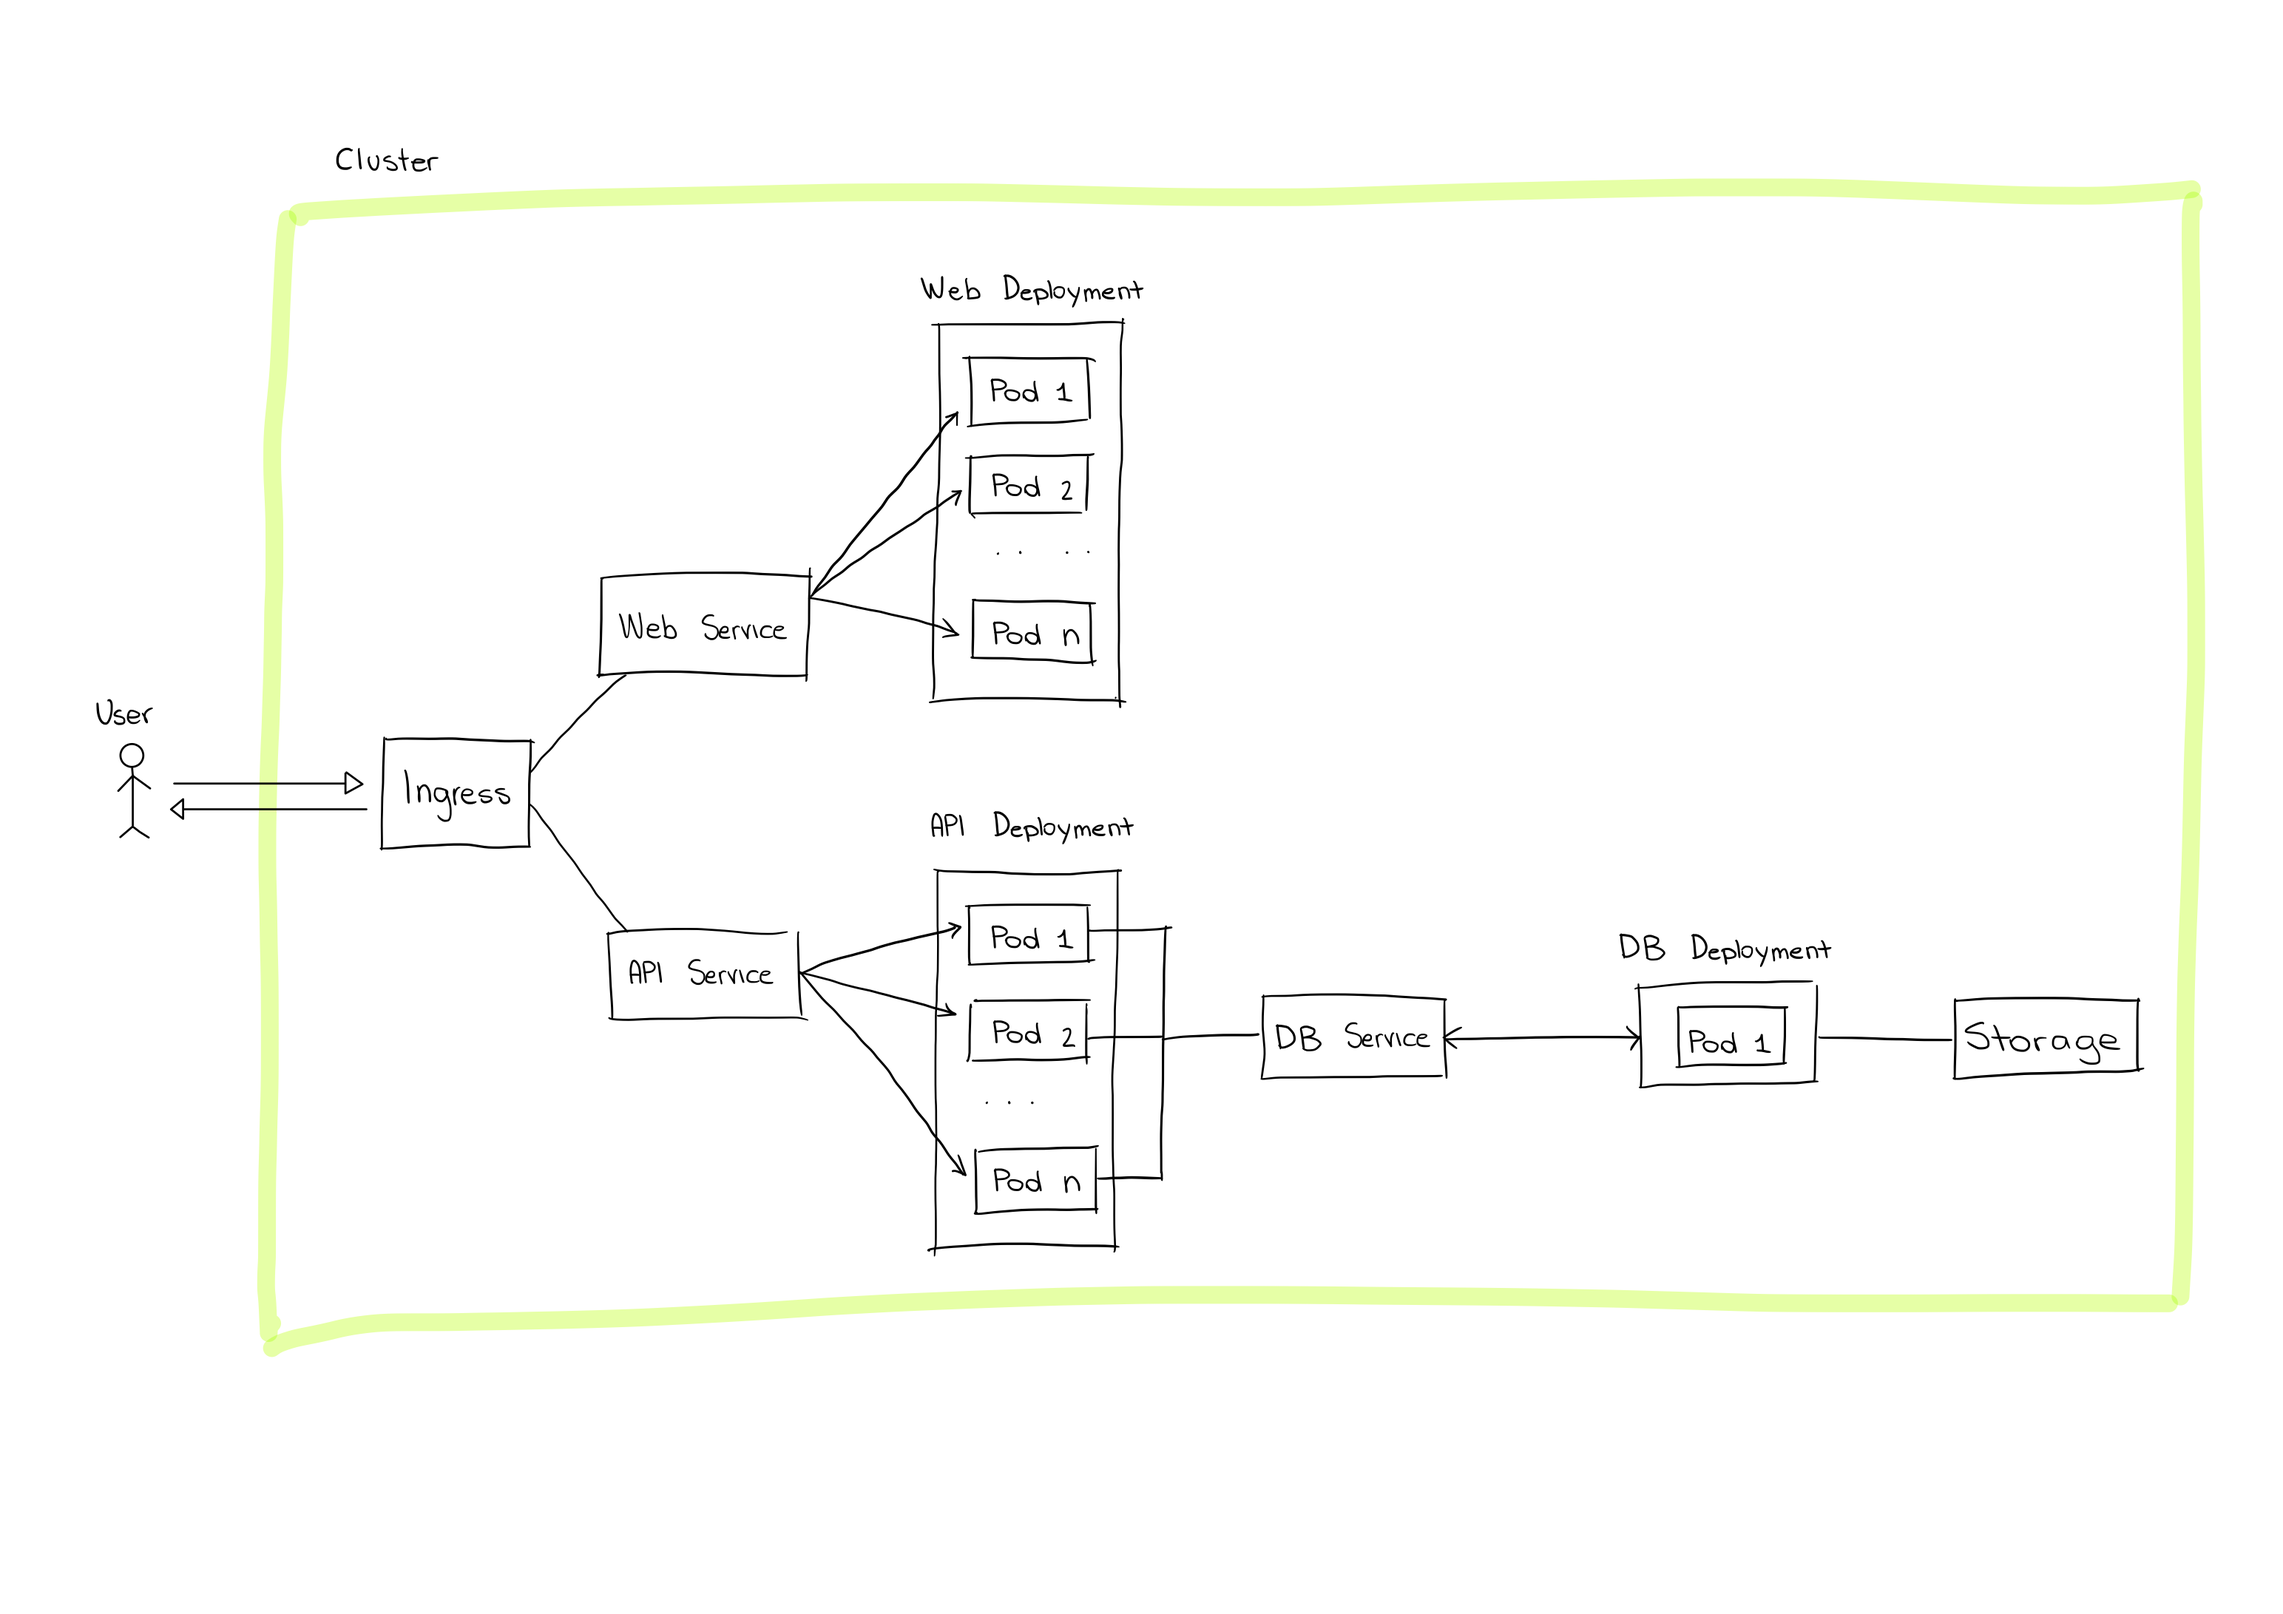
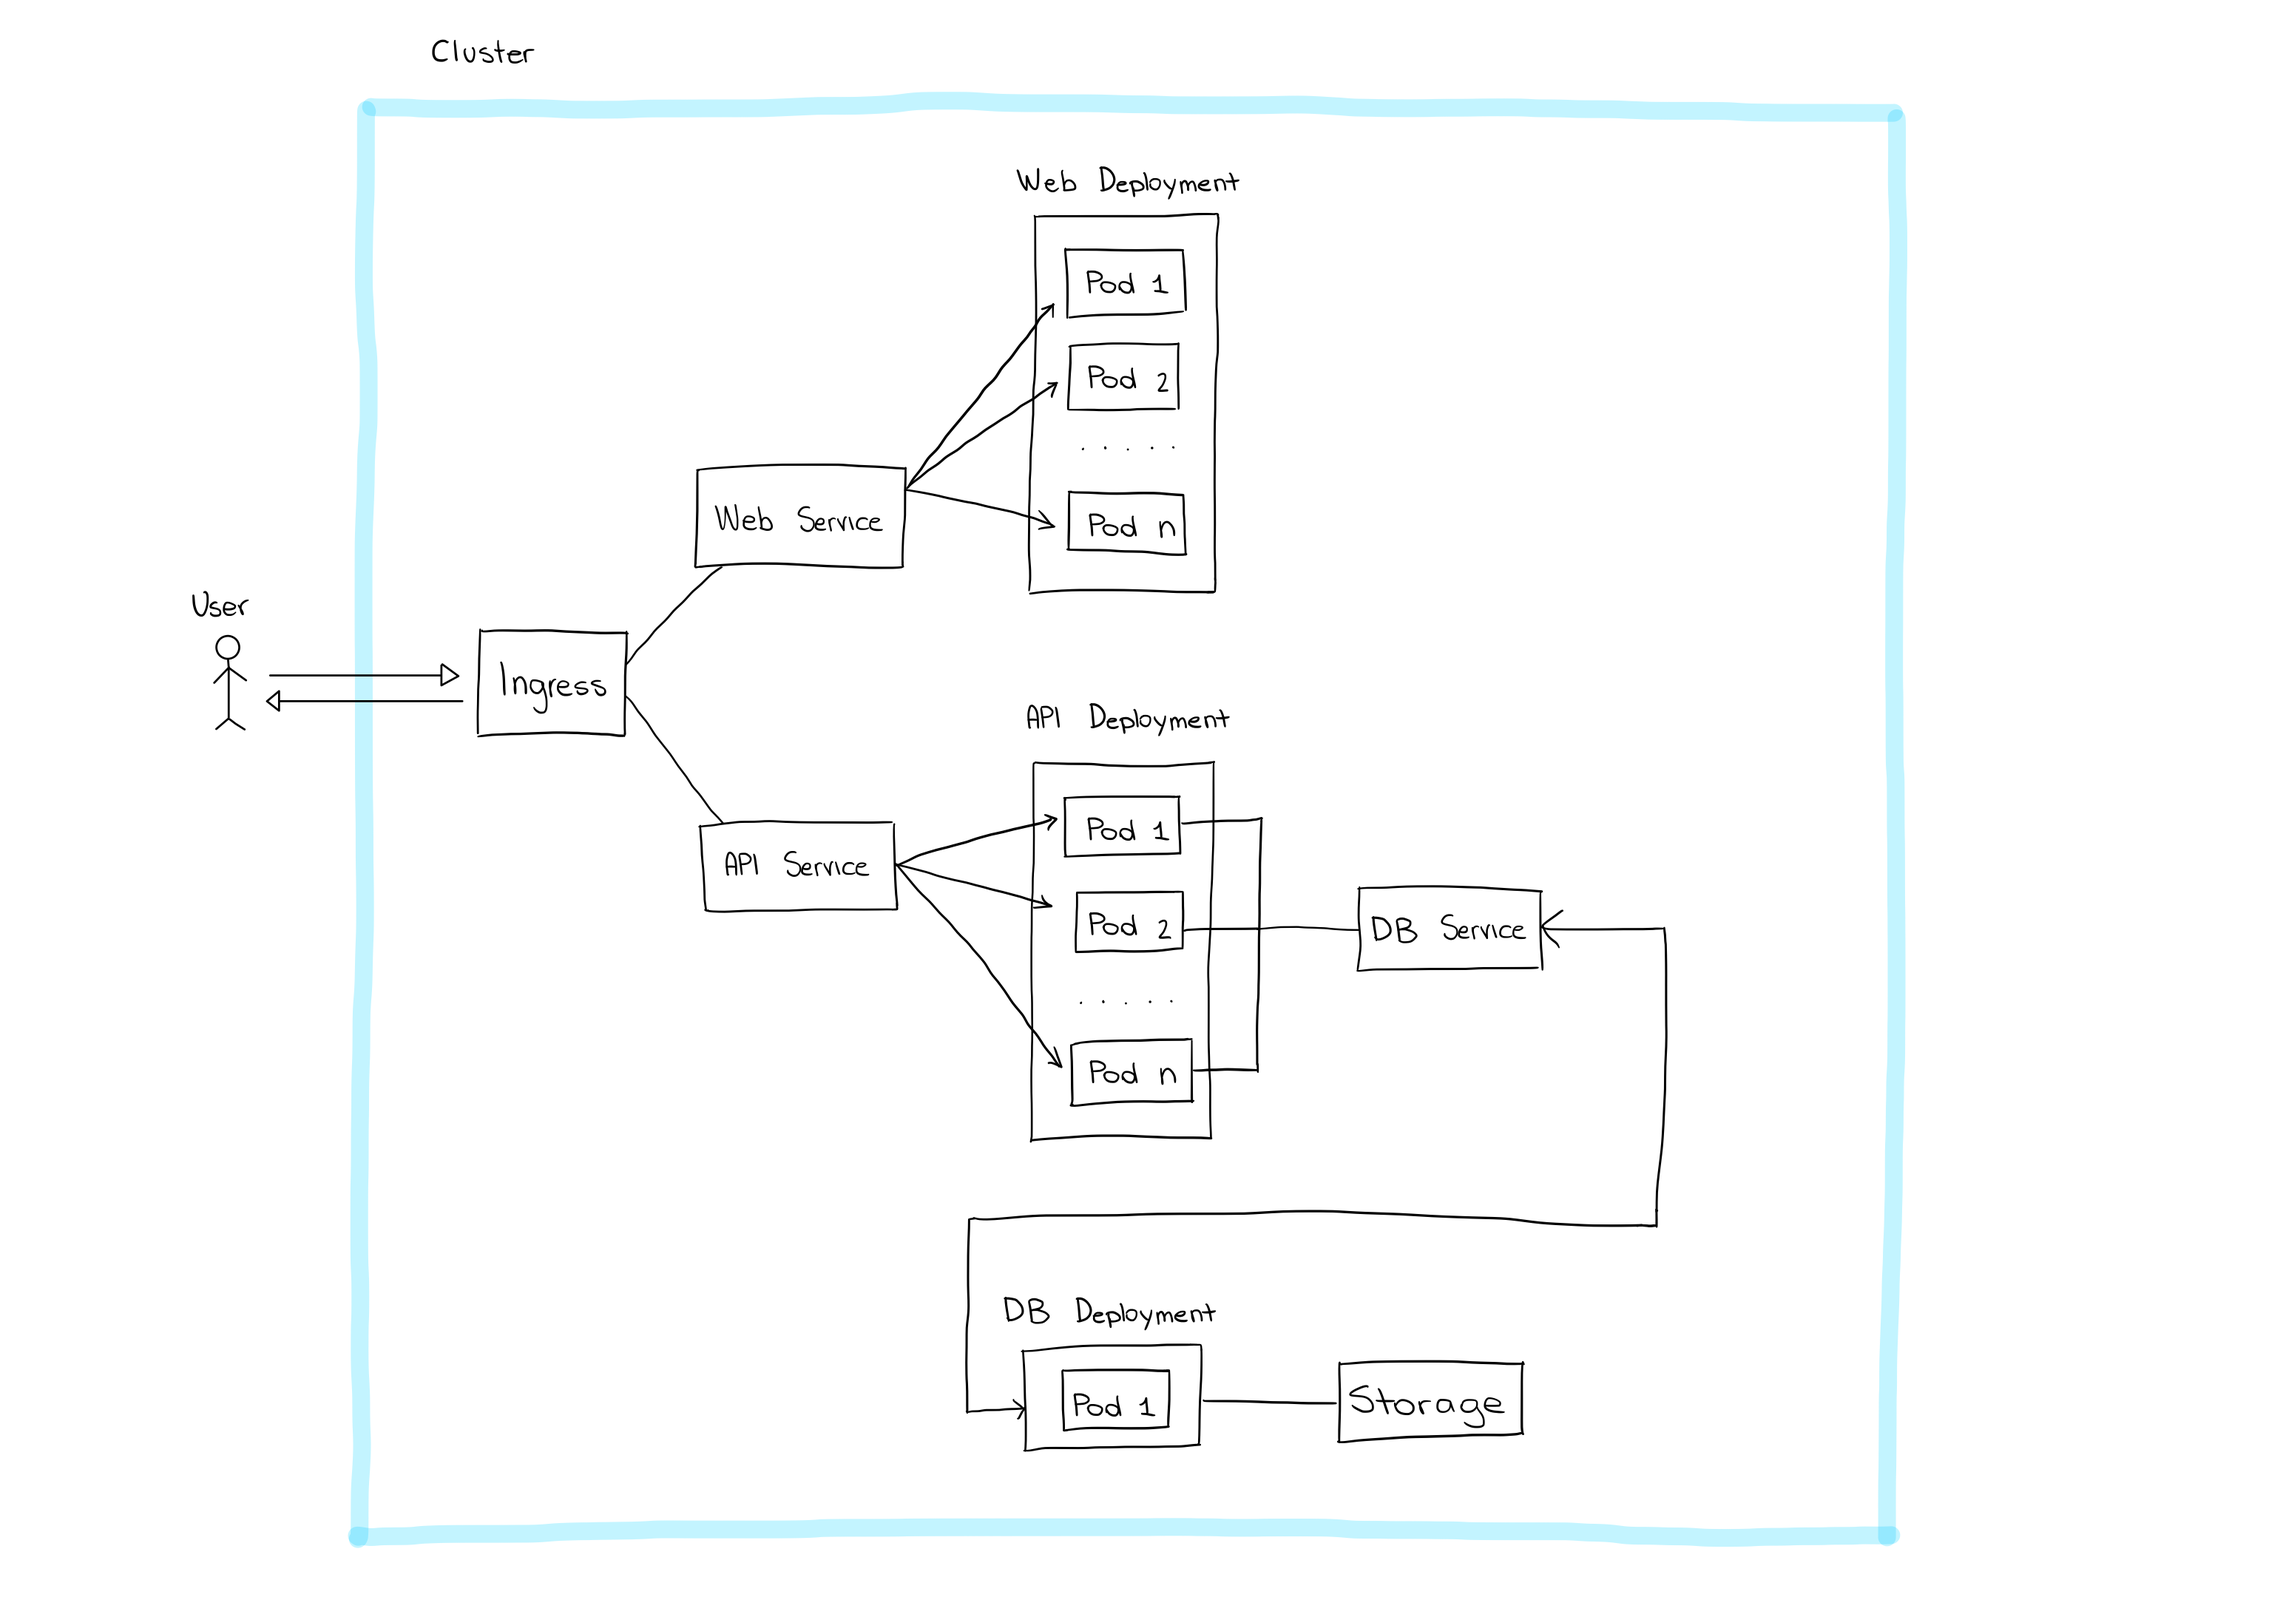
Modified kubernetes architecture image

diff --git a/README.md b/README.md
@@ -127,7 +127,7 @@ set up our cluster and some shell scripts we wrote to manage it:
  * `deploy.sh` is used by our CI/CD pipeline to update the images used by an existing deployment
 
 This diagram describes the architecture of our production environment:
-![Architecture of the production environment](docs/images/architecture_2.png)
+![Architecture of the production environment](docs/images/architecture_1.png)
 
 ### Pods
 Pods are the smallest deployable object represented by Kubernetes: they represent
